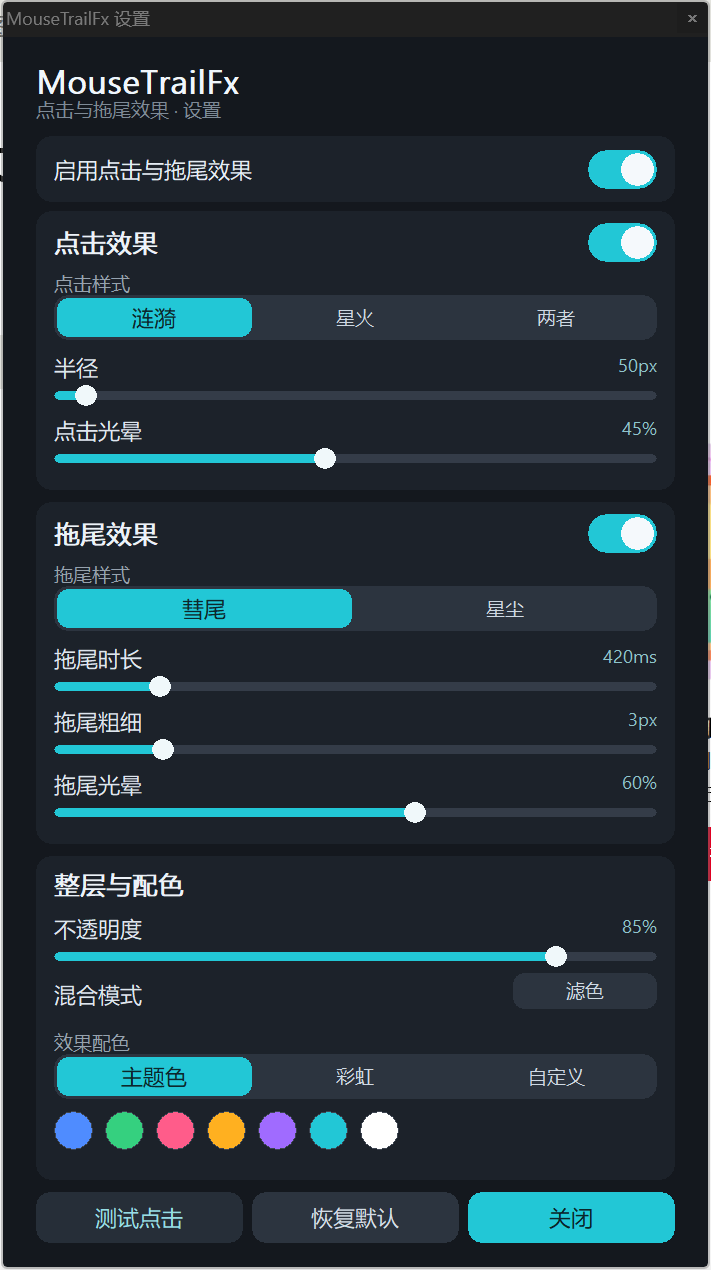
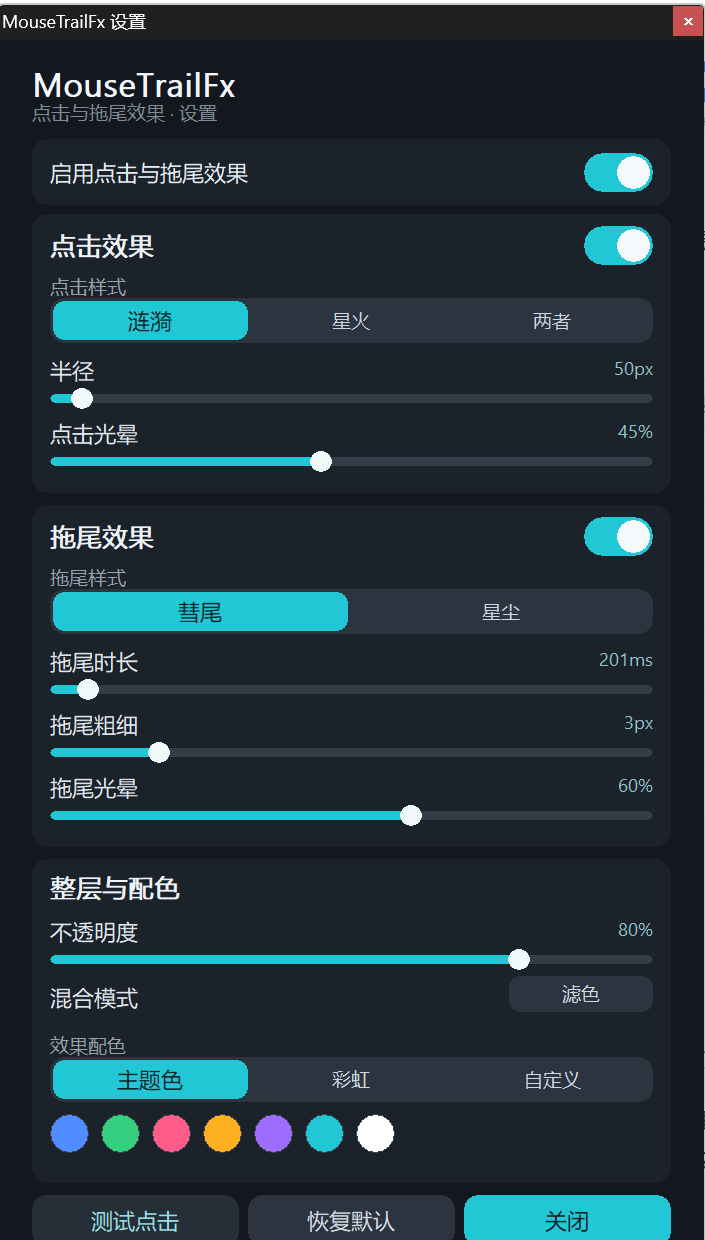
feat: default trail length 201ms and opacity 80% (match tuned settings); refresh panel screenshot

diff --git a/src/main.cpp b/src/main.cpp
@@ -32,10 +32,10 @@ struct Settings {
     float clickGlow  = 45.f;   // 0..100
     bool  trailOn    = true;
     int   trailStyle = 0;      // 0=彗尾 1=星尘
-    float trailLife  = 420.f;  // 80..2000 ms
+    float trailLife  = 201.f;  // 80..2000 ms
     float trailWidth = 3.f;    // 1..12 px
     float trailGlow  = 60.f;   // 0..100
-    float opacity    = 85.f;   // 10..100
+    float opacity    = 80.f;   // 10..100
     int   blend      = 0;      // 0=screen 1=normal 2=overlay 3=multiply 4=lighten
     int   colorMode  = 0;      // 0=主题�?1=彩虹 2=自定�?
     unsigned color   = 0x4f8cff;
@@ -247,8 +247,8 @@ static void SaveConfig() {
 
 // 预设
 static void ApplyPreset(int which) {
-    g_s.clickSize = 50.f; g_s.clickGlow = 45.f; g_s.opacity = 85.f;
-    g_s.trailLife = 420.f; g_s.trailWidth = 3.f; g_s.trailGlow = 60.f;
+    g_s.clickSize = 50.f; g_s.clickGlow = 45.f; g_s.opacity = 80.f;
+    g_s.trailLife = 201.f; g_s.trailWidth = 3.f; g_s.trailGlow = 60.f;
     g_s.blend = 0; g_s.colorMode = 0; g_s.trailStyle = 0; g_s.clickStyle = 0;
     switch (which) {
         case 1:  // 霓虹
@@ -1512,7 +1512,11 @@ static HICON MakeTrayIcon(int size) {
         }
     }
 
-    HBITMAP mask = CreateBitmap(size, size, 1, 1, nullptr);
+    // 掩码必须显式清零：CreateBitmap 传 nullptr 时内容是未定义的，
+    // 若被填成全 1（透明）整枚图标就不可见 —— 托盘里“没有图标”多半是这个原因
+    int maskStride = ((size + 31) / 32) * 4;
+    std::vector<unsigned char> maskBits(size_t(maskStride) * size, 0);
+    HBITMAP mask = CreateBitmap(size, size, 1, 1, maskBits.data());
     ICONINFO ii{};
     ii.fIcon = TRUE;
     ii.hbmMask = mask;
@@ -1524,7 +1528,8 @@ static HICON MakeTrayIcon(int size) {
 }
 
 static void TrayAdd(HWND h) {
-    g_trayIcon = MakeTrayIcon(32);
+    static int tries = 0;
+    if (!g_trayIcon) g_trayIcon = MakeTrayIcon(32);
     g_nid.cbSize = sizeof(g_nid);
     g_nid.hWnd = h;
     g_nid.uID = 1;
@@ -1533,9 +1538,12 @@ static void TrayAdd(HWND h) {
     g_nid.hIcon = g_trayIcon;
     wcsncpy(g_nid.szTip, L"MouseTrailFx", 63);
     g_nid.szTip[63] = 0;
-    Shell_NotifyIconW(NIM_ADD, &g_nid);
+    BOOL ok = Shell_NotifyIconW(NIM_ADD, &g_nid);
+    if (!ok) ok = Shell_NotifyIconW(NIM_MODIFY, &g_nid);   // 已经加过时 NIM_ADD 会失败
+    LogF("tray add=%d err=%lu icon=%p try=%d", int(ok), GetLastError(), (void*)g_trayIcon, tries);
     g_nid.uVersion = NOTIFYICON_VERSION_4;
     Shell_NotifyIconW(NIM_SETVERSION, &g_nid);
+    if (!ok && ++tries < 6) SetTimer(h, 3, 1500, nullptr);  // 登录早期资源管理器可能还没准备好，重试
 }
 
 static void TrayUpdateTip(const wchar_t* tip) {
@@ -1653,7 +1661,7 @@ static LRESULT CALLBACK WndProc(HWND h, UINT msg, WPARAM wp, LPARAM lp) {
                 PollClick();
                 return 0;
             }
-            return 0;
+            if (wp == 3) { KillTimer(h, 3); TrayAdd(h); return 0; }
         case WM_TRAY:
             if (LOWORD(lp) == WM_RBUTTONUP || LOWORD(lp) == WM_CONTEXTMENU) TrayMenu(h);
             else if (LOWORD(lp) == WM_LBUTTONDBLCLK) PanelShow();

diff --git a/README.md b/README.md
@@ -67,10 +67,10 @@ https://github.com/LRxfl0019/MouseTrailFx/releases/latest/download/MouseTrailFx.
   "enabled": true,
   "autostart": true,
   "captureHidden": true,
-  "opacity": 85,
+  "opacity": 80,
   "blend": "screen",
   "click": { "on": true, "style": "ripple", "size": 50, "glow": 45 },
-  "trail": { "on": true, "style": "comet", "length": 420, "width": 3.0, "glow": 60 },
+  "trail": { "on": true, "style": "comet", "length": 201, "width": 3.0, "glow": 60 },
   "color": { "mode": "accent", "value": "#4f8cff" }
 }
 ```
@@ -107,7 +107,7 @@ g++ -std=c++20 -O2 -s -municode -mwindows -static src/main.cpp build_res.o -o di
 | 参数 | 值 | 来源 |
 |---|---|---|
 | 拖尾采样间距 | 3 px（距离重采样） | `FX_TRAIL_STEP_PX` |
-| 拖尾寿命 | 420 ms（可调 80–2000） | `fxTrailLength` |
+| 拖尾寿命 | 默认 201 ms（可调 80–2000） | `fxTrailLength` |
 | 点击寿命 | 900 ms | `FX_CLICK_LIFE_MS` |
 | 涟漪 | 两圈，第二圈晚 18%，`easeOutCubic` | `fxDrawClicks` |
 | 星火 | 12 条，外 30% 长度，前 1/3 寿命白闪 | `FX_SPARK_COUNT` |
